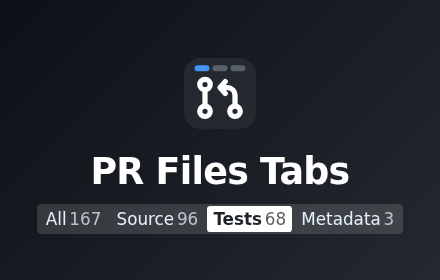
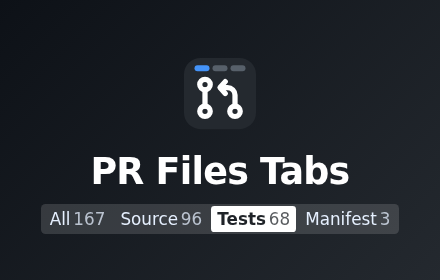
Rename the Metadata tab to Manifest

Changed region(s): [[0.2659, 0.7143, 0.9159, 0.8286], [0.0591, 0.7429, 0.2364, 0.8286]]

diff --git a/shared.js b/shared.js
@@ -4,7 +4,7 @@ var GHPT = (function () {
     // Label of the tab that opens first on a PR; empty means All.
     defaultTab: '',
     tabs: [
-      { label: 'Source', patterns: ['!Metadata', '!Tests', '!Docs', '!Infra', '!Artifacts'] },
+      { label: 'Source', patterns: ['!Manifest', '!Tests', '!Docs', '!Infra', '!Artifacts'] },
       {
         label: 'Tests',
         patterns: [
@@ -17,16 +17,16 @@ var GHPT = (function () {
           '!jest.config.*', '!jest.setup.*', '!vitest.config.*', '!vitest.workspace.*',
           '!playwright.config.*', '!cypress.config.*', '!karma.conf.*', '!.mocharc*',
           '!pytest.ini', '!tox.ini', '!.nycrc*', '!setupTests.*', '!tsconfig*.json',
-          '!Metadata'
+          '!Manifest'
         ]
       },
       {
         label: 'Docs',
         patterns: [
           // Markdown and other doc markup, except inside test folders (e.g. snapshot fixtures).
-          // Readmes and changelogs belong to Metadata.
+          // Readmes and changelogs belong to Manifest.
           '/^(?!.*(^|\\/)(__tests__|__snapshots__|tests?|fixtures?|testdata)\\/).*\\.(md|markdown|rst|adoc)$/i',
-          '!Metadata'
+          '!Manifest'
         ]
       },
       {
@@ -45,7 +45,7 @@ var GHPT = (function () {
         ]
       },
       {
-        label: 'Metadata',
+        label: 'Manifest',
         patterns: [
           'package.json', 'package-lock.json', 'npm-shrinkwrap.json', 'yarn.lock', 'pnpm-lock.yaml',
           'requirements.txt', 'Pipfile', 'Pipfile.lock', 'pyproject.toml', 'poetry.lock',
@@ -85,8 +85,8 @@ var GHPT = (function () {
   // Pattern syntax: "/regex/flags" tests the full path. Otherwise a glob where * is any
   // characters (including "/") and ? is one character. A glob without "/" tests the file
   // name only, a glob with "/" tests the full path. Globs are case-insensitive.
-  // A leading "!" excludes: "!Metadata" removes files that belong to the tab labelled
-  // Metadata, and "!*.md" or "!/docs/i" removes files matching that pattern. A tab holds a
+  // A leading "!" excludes: "!Manifest" removes files that belong to the tab labelled
+  // Manifest, and "!*.md" or "!/docs/i" removes files matching that pattern. A tab holds a
   // file when any plain pattern matches (or it has none) and no "!" pattern matches.
   function compile(pattern) {
     let text = pattern.trim();

diff --git a/options.html b/options.html
@@ -26,7 +26,7 @@
     A glob like <code>package*.json</code> matches the file name only (<code>*</code> = any characters,
     <code>?</code> = one character). A glob with a slash like <code>services/*/lib/*</code> matches the full path.
     <code>/regex/flags</code> such as <code>/test/i</code> matches the full path.<br>
-    <b>Exclude</b> with <code>!</code>: <code>!Metadata</code> drops files that belong to the Metadata tab,
+    <b>Exclude</b> with <code>!</code>: <code>!Manifest</code> drops files that belong to the Manifest tab,
     <code>!*.md</code> drops files matching that pattern. A tab with only <code>!</code> lines starts from every file.
   </p>
 

diff --git a/store/promo/tile.html b/store/promo/tile.html
@@ -30,7 +30,7 @@
   <div>
     <h1>PR Files Tabs</h1>
     <p>Review big GitHub pull requests one kind of file at a time, with the tab you are on loaded first.</p>
-    <div class="tabs"><span>All<b>167</b></span><span>Source<b>96</b></span><span class="on">Tests<b>68</b></span><span>Metadata<b>3</b></span></div>
+    <div class="tabs"><span>All<b>167</b></span><span>Source<b>96</b></span><span class="on">Tests<b>68</b></span><span>Manifest<b>3</b></span></div>
   </div>
   <script>if (location.hash === '#small') document.body.classList.add('small');</script>
 </body>

diff --git a/store/README.md b/store/README.md
@@ -23,7 +23,7 @@ Screenshots use a public PR (react/react#37778), with the signed-in account's av
 **Name:** PR Files Tabs
 
 **Summary** (132 characters max):
-Split GitHub pull request files into tabs like Source, Tests and Metadata, and load the tab you're on first.
+Split GitHub pull request files into tabs like Source, Tests and Manifest, and load the tab you're on first.
 
 **Category:** Developer Tools. **Language:** English.
 
@@ -32,11 +32,11 @@ Split GitHub pull request files into tabs like Source, Tests and Metadata, and l
 > Big pull requests mix source changes with tests, lock files and generated files.
 > PR Files Tabs adds tabs to GitHub's Files changed page so you can review one kind at a time.
 >
-> - Tabs for Source, Tests, Docs, Infra (serverless, CDK, Terraform, Docker, CI), Metadata
+> - Tabs for Source, Tests, Docs, Infra (serverless, CDK, Terraform, Docker, CI), Manifest
 >   (dependencies, readmes, changelogs) and Artifacts (build output, minified and generated code)
 >   out of the box, with file counts.
 > - Make your own tabs with simple patterns: globs like `package*.json`, folders like
->   `services/*/lib/*`, regexes like `/test/i`, and exclusions like `!Metadata`.
+>   `services/*/lib/*`, regexes like `/test/i`, and exclusions like `!Manifest`.
 > - Pick the tab a PR opens on; the tab you choose on a PR is remembered across refreshes.
 > - The file tree follows the tab you're on.
 > - Works on both the new and the classic Files changed page.

diff --git a/README.md b/README.md
@@ -2,7 +2,7 @@
 
 # PR Files Tabs
 
-Chrome extension that adds configurable tabs (All / Source / Tests / Docs / Infra / Metadata / Artifacts by default)
+Chrome extension that adds configurable tabs (All / Source / Tests / Docs / Infra / Manifest / Artifacts by default)
 to the GitHub pull request **Files changed** view, on both the new and the classic page.
 Switching a tab filters both the diff list and the left file tree.
 
@@ -25,7 +25,7 @@ One pattern per line; a tab shows a file when any pattern matches.
 - `package*.json` matches the file name (`*` any characters, `?` one character).
 - `services/*/lib/*` (contains `/`) matches the full path.
 - `/test/i` is a regex tested against the full path.
-- `!Metadata` excludes files that belong to the tab labelled Metadata; `!*.md` excludes
+- `!Manifest` excludes files that belong to the tab labelled Manifest; `!*.md` excludes
   files matching a pattern. A tab with only `!` lines starts from every file.
 
 ## Experiments
